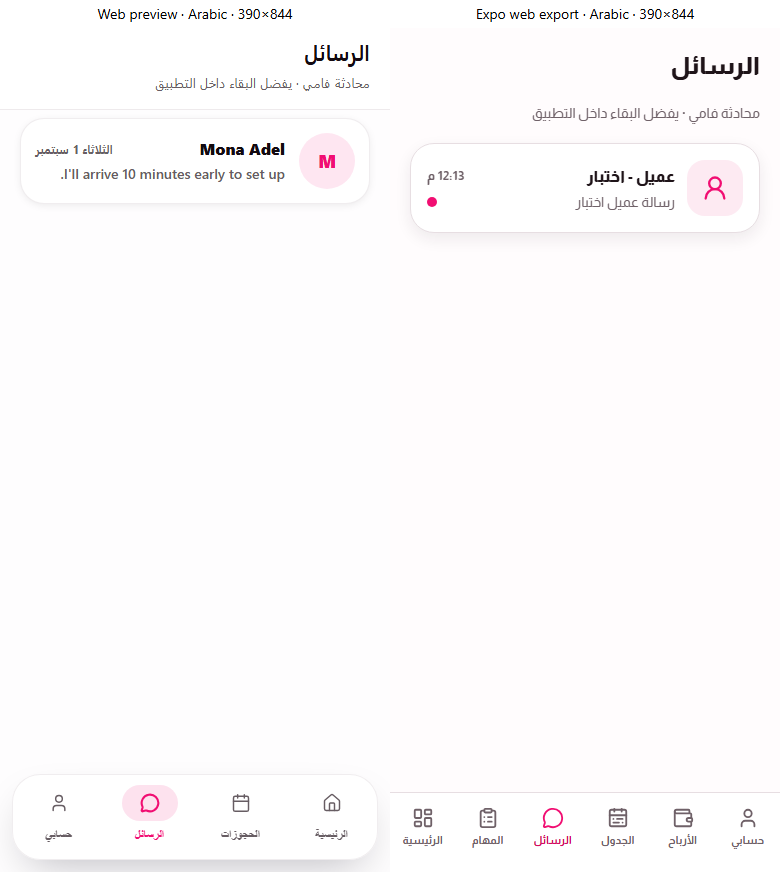
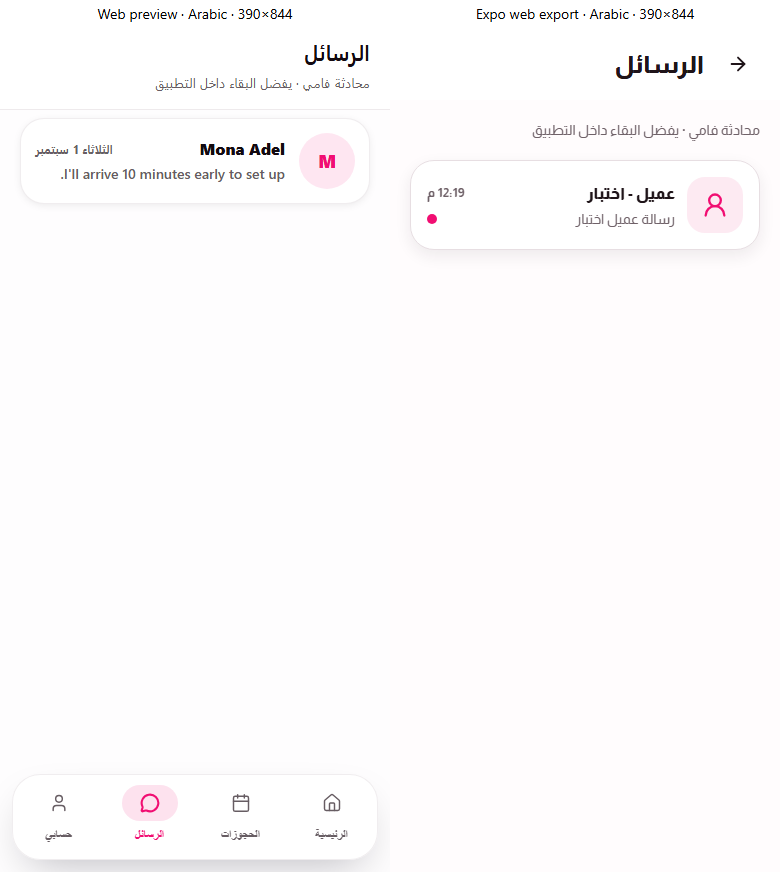
fix(mobile): keep provider messages outside five-tab navigation

diff --git a/mobile/src/app/(provider)/(tabs)/_layout.tsx b/mobile/src/app/(provider)/(tabs)/_layout.tsx
@@ -1,14 +1,7 @@
 import { Redirect } from "expo-router";
 import { Tabs } from "expo-router/tabs";
 import { useTranslation } from "react-i18next";
-import {
-  CalendarRange,
-  ClipboardList,
-  LayoutDashboard,
-  MessageCircle,
-  User,
-  Wallet,
-} from "lucide-react-native";
+import { CalendarRange, ClipboardList, LayoutDashboard, User, Wallet } from "lucide-react-native";
 import { useSafeAreaInsets } from "react-native-safe-area-context";
 import { useWindowDimensions, type TextStyle } from "react-native";
 import { useSession } from "@/lib/session";
@@ -61,15 +54,6 @@ export default function ProviderTabs() {
             title: t("pro.nav.jobs"),
             tabBarIcon: ({ color, focused }) => (
               <ClipboardList size={22} color={focused ? colors.brand : color} />
-            ),
-          }}
-        />
-        <Tabs.Screen
-          name="pro-messages"
-          options={{
-            title: t("nav.messages"),
-            tabBarIcon: ({ color, focused }) => (
-              <MessageCircle size={22} color={focused ? colors.brand : color} />
             ),
           }}
         />

diff --git a/mobile/src/app/(provider)/pro-messages.tsx b/mobile/src/app/(provider)/pro-messages.tsx
@@ -4,14 +4,19 @@ import { useConversations } from "@/lib/chatQueries";
 import { ConversationRow } from "@/ui/chat/ConversationRow";
 import { Page, QueryState, ui } from "@/ui/Page";
 import { Text } from "@/ui/Text";
+import { ProviderHeader } from "@/ui/provider/ProviderHeader";
 import { space } from "@/ui/theme";
 
-export default function ProviderMessagesTab() {
+export default function ProviderMessagesScreen() {
   const { t } = useTranslation();
   const q = useConversations();
   const rows = q.data ?? [];
   return (
-    <Page tab title={t("nav.messages")} queries={[q]}>
+    <Page
+      title={t("nav.messages")}
+      header={<ProviderHeader title={t("nav.messages")} />}
+      queries={[q]}
+    >
       <Text tone="muted">{t("messages.chatNotice")}</Text>
       <QueryState query={q}>
         {!rows.length ? (

diff --git a/mobile/src/app/(provider)/_layout.tsx b/mobile/src/app/(provider)/_layout.tsx
@@ -33,6 +33,7 @@ export default function ProviderStack() {
       <Stack.Screen name="(tabs)" options={{ headerShown: false }} />
       <Stack.Screen name="pro-booking/[id]" options={{ title: t("pro.booking.title") }} />
       <Stack.Screen name="pro-chat/[id]" options={{ title: t("nav.messages") }} />
+      <Stack.Screen name="pro-messages" options={{ headerShown: false }} />
       <Stack.Screen name="pro-notifications" options={{ title: t("notifs.title") }} />
       <Stack.Screen name="pro-apply" options={{ title: t("providerApply.checklist") }} />
       <Stack.Screen name="pro-documents" options={{ title: t("providerDocuments.title") }} />

diff --git a/mobile/src/app/(provider)/(tabs)/pro-profile.tsx b/mobile/src/app/(provider)/(tabs)/pro-profile.tsx
@@ -168,6 +168,7 @@ export default function ProviderProfile() {
       </QueryState>
       <Row label={t("pro.profile.title")} onPress={() => router.push("/pro-profile-edit")} />
       <Row label={t("providerDocuments.title")} onPress={() => router.push("/pro-documents")} />
+      <Row label={t("nav.messages")} onPress={() => router.push("/pro-messages")} />
       <Row label={t("common.notifications")} onPress={() => router.push("/pro-notifications")} />
       <Row
         label={t("mobilePro.notificationPrefs")}

diff --git a/mobile/qa/parity-evidence/provider/README.md b/mobile/qa/parity-evidence/provider/README.md
@@ -27,8 +27,8 @@ Each linked PNG places the current web preview on the left and the provider rout
 | Notifications | [notifications](pairs/notifications.png) | Day grouping and read state |
 | Notification preferences | [notification-preferences](pairs/notification-preferences.png) | Native push switches differ from browser capability warning |
 
-Additional app-only evidence: [decline](native/pro-booking-decline.png), [ready to start](native/pro-booking-ready-to-start.png), [in progress](native/pro-booking-in-progress.png), and [schedule saved](native/pro-schedule-save.png). The fixture verifies writes for accept, decline, start, completion request, schedule save, and teaching-group save; completed status itself is seeded because customer confirmation is a separate actor.
+Additional app-only evidence: [decline](native/pro-booking-decline.png), [ready to start](native/pro-booking-ready-to-start.png), [in progress](native/pro-booking-in-progress.png), [vacation and blocked dates](native/pro-schedule-blocked.png), and [schedule saved](native/pro-schedule-save.png). The fixture verifies writes for accept, decline, start, completion request, schedule save, and teaching-group save; completed status itself is seeded because customer confirmation is a separate actor.
 
 Recreate the pairs from the worktree root with the web preview fixtures enabled, then from `mobile/` run `npx expo export --platform web --output-dir dist-provider-parity`, `node qa/parity-evidence/provider/capture-native.mjs`, `node qa/parity-evidence/provider/capture-setup.mjs`, and `node qa/parity-evidence/provider/compose.mjs`. `capture-web.mjs` records the matching web-preview routes. All capture scripts intercept network traffic with local fixture data.
 
-Remaining visual differences to resolve before claiming exact parity: the native provider navigation retains a sixth Messages tab because hiding its route made direct conversation access fail; profile editing uses a separate screen while web edits inline; fixture data and date differ; native notification preferences expose push controls while the web preview shows a browser-support warning. The 390×844 Expo web rendering also cannot establish Android font metrics, safe-area spacing, or keyboard behavior.
+Remaining visual differences to resolve before claiming exact parity: profile editing uses a separate screen while web edits inline; fixture data and date differ; native notification preferences expose push controls while the web preview shows a browser-support warning. The app now has the same five provider tabs as web, with Messages reachable from profile and booking/chat links. The 390×844 Expo web rendering also cannot establish Android font metrics, safe-area spacing, or keyboard behavior.
